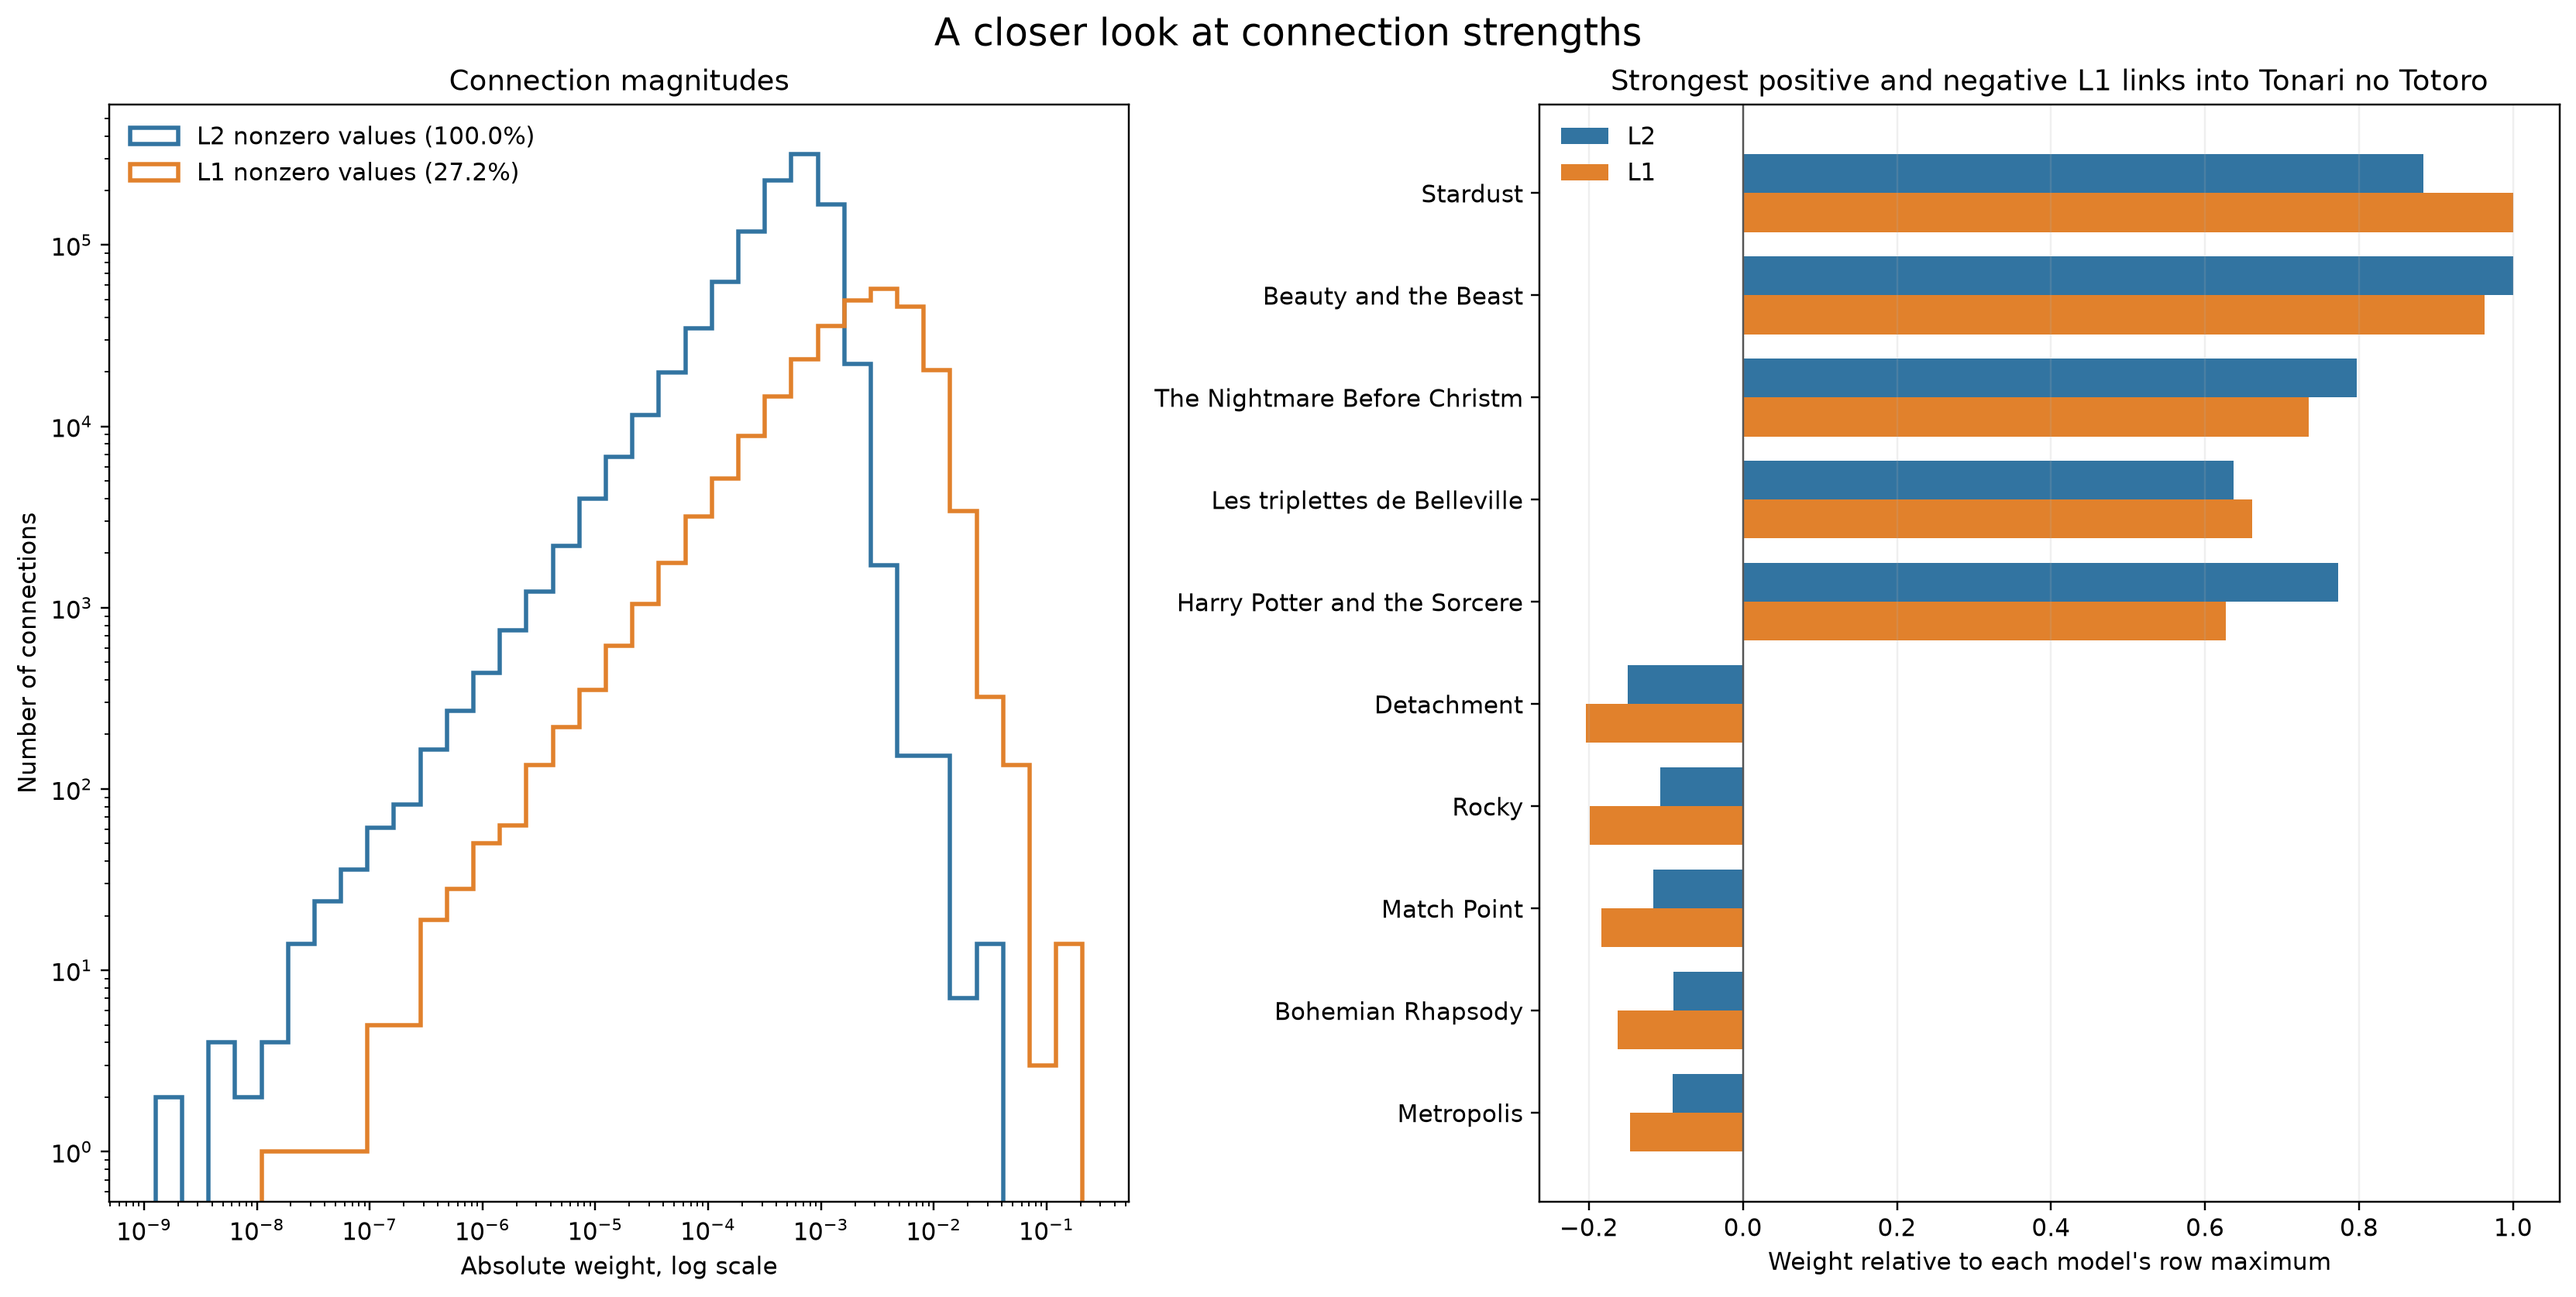
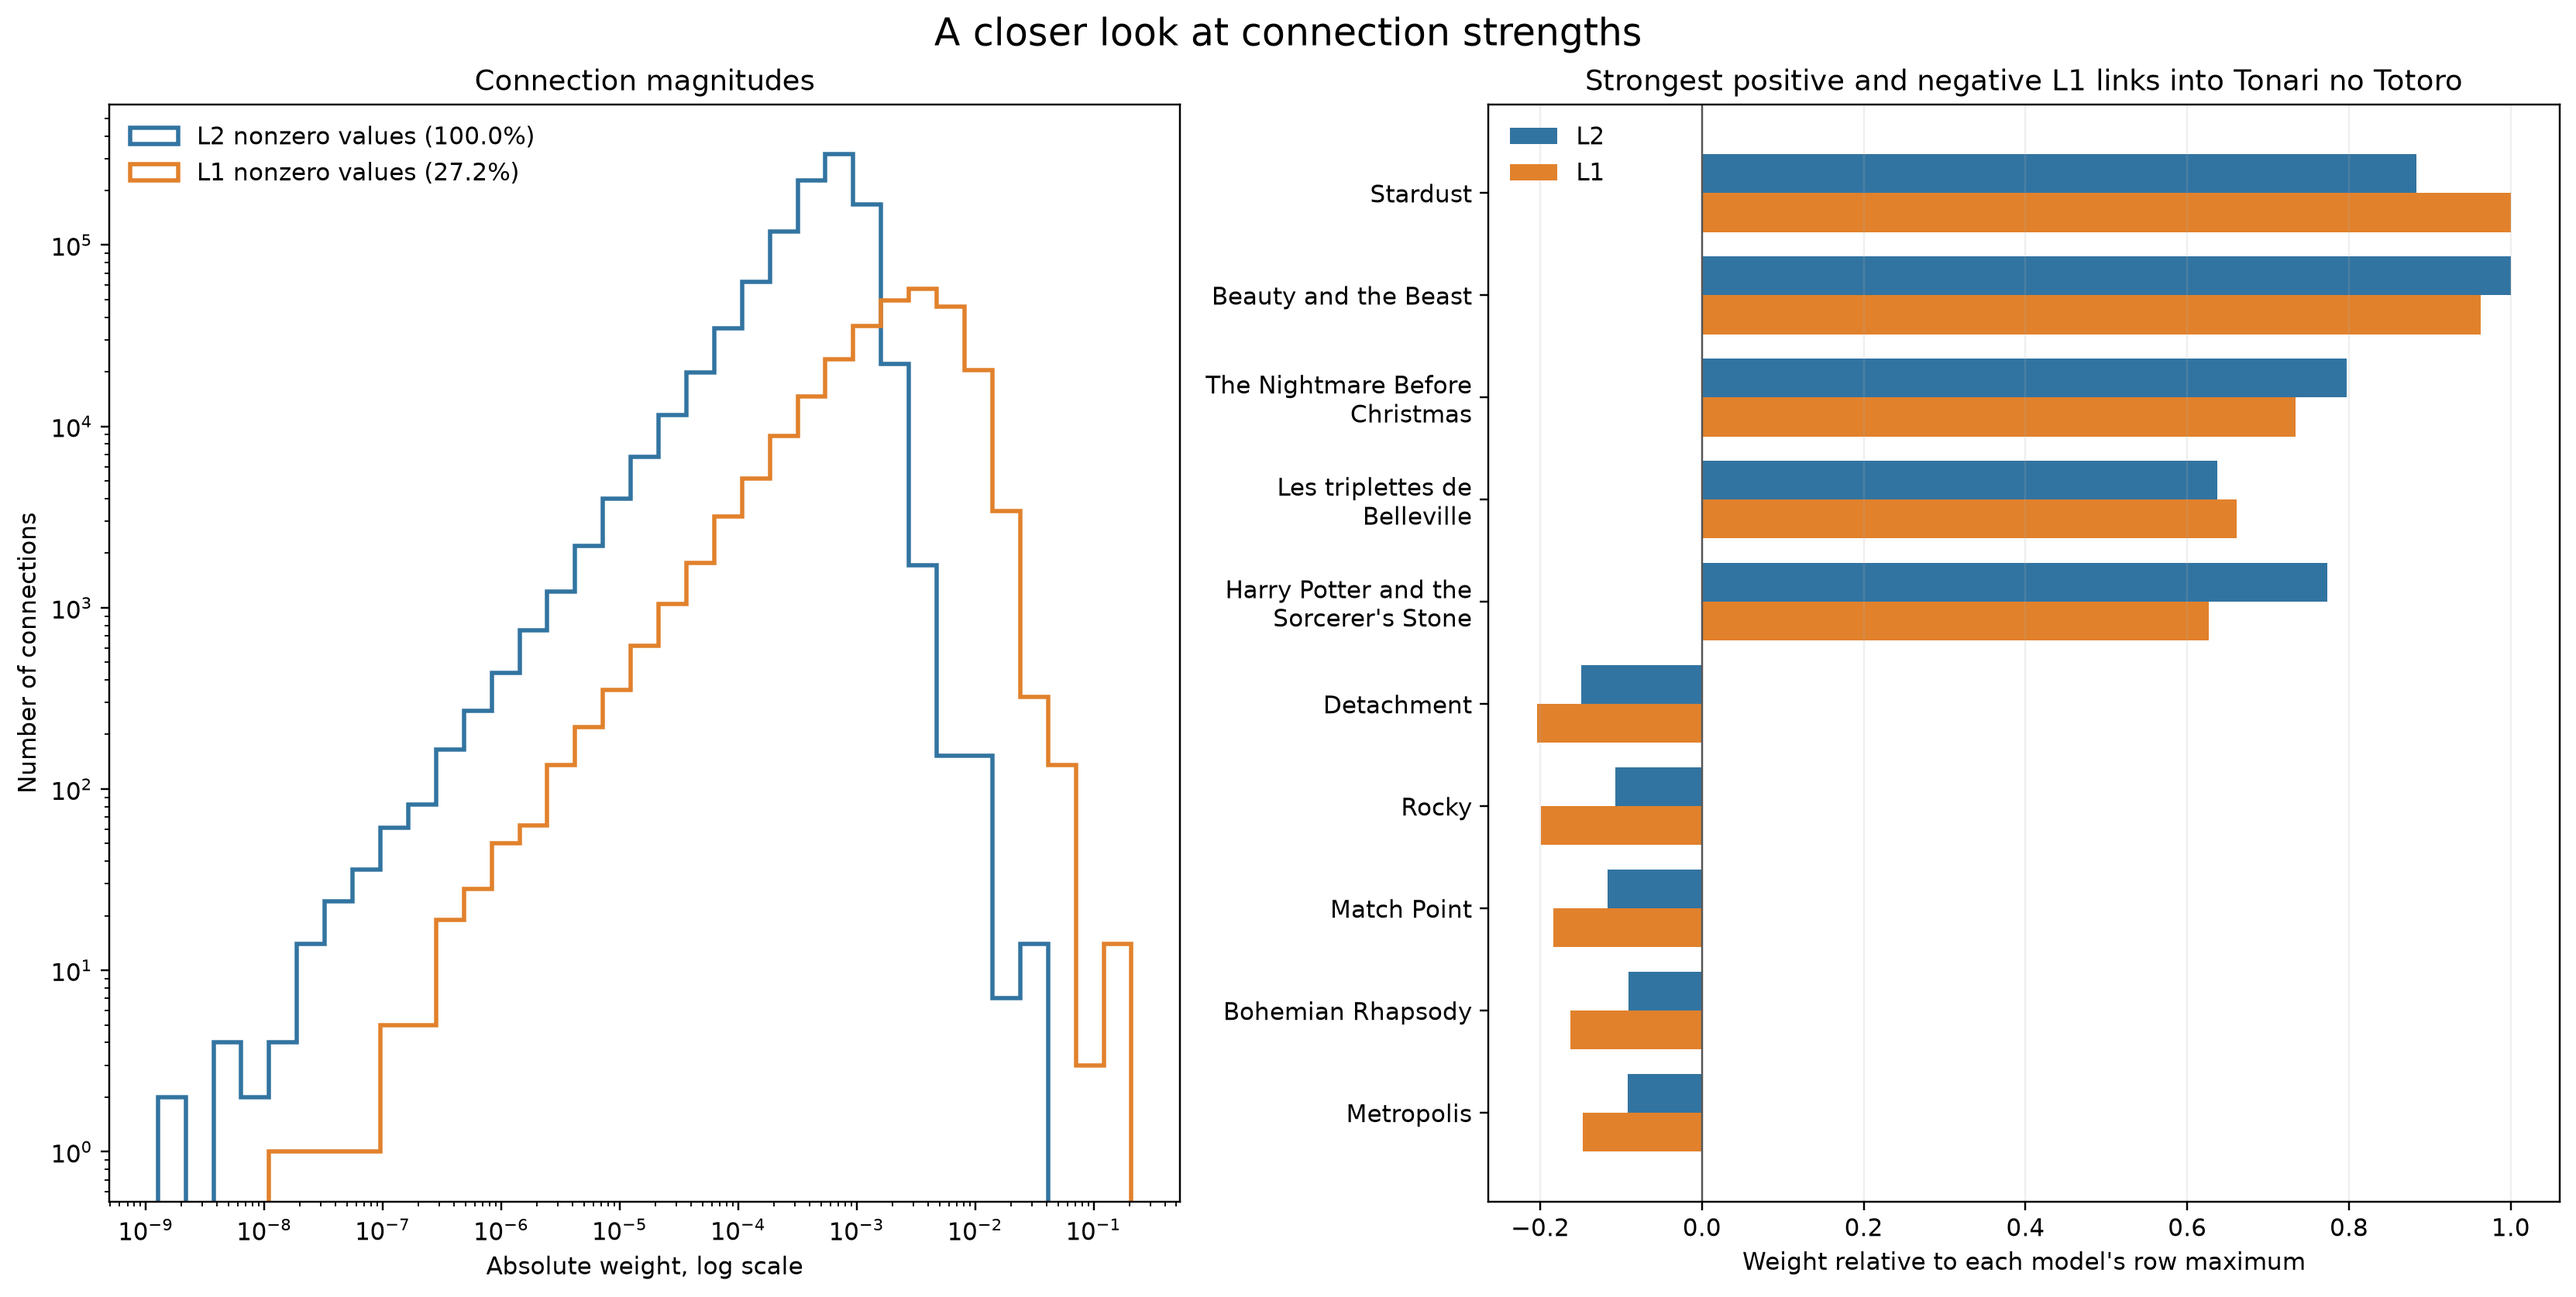
docs: pin slide notes to the bottom, show Totoro figure first
Wrap long movie titles in the connection figure instead of truncating
them, and redraw it from the saved weights.

diff --git a/slides/main.tex b/slides/main.tex
@@ -2,6 +2,17 @@
 
 \usepackage{mathtools}
 \usepackage{qrcode}
+\usepackage{tikz}
+
+% A small note pinned to the same spot at the bottom of every slide.
+\newcommand{\slidenote}[1]{%
+  \begin{tikzpicture}[remember picture, overlay]
+    \node[anchor=south west, inner sep=0pt, text width=0.9\paperwidth,
+          font=\footnotesize]
+      at ([xshift=0.05\paperwidth, yshift=0.06\paperheight]current page.south west)
+      {#1};
+  \end{tikzpicture}%
+}
 
 \usetheme{default}
 \setbeamertemplate{navigation symbols}{}
@@ -28,9 +39,8 @@
     \item Compare L2 and L1 regularization, then try recommendations in Streamlit.
   \end{itemize}
 
-  \vfill
-  \footnotesize Synthetic preferences make this a teaching example, not evidence
-  of real-world recommendation quality.
+  \slidenote{Synthetic preferences make this a teaching example, not evidence
+  of real-world recommendation quality.}
 \end{frame}
 
 \begin{frame}{Starting from your favorites}
@@ -46,7 +56,7 @@
     \item $v_i = 1$: movie $i$ is a favorite; $v_i = 0$ otherwise.
   \end{itemize}
 
-  \small Zero means unknown, not disliked.
+  \slidenote{Zero means unknown, not disliked.}
 \end{frame}
 
 \begin{frame}{What to do with your sparse vector?}
@@ -91,7 +101,7 @@
     \item Forbid self-prediction: $\operatorname{diag}(X) = 0$.
   \end{itemize}
 
-  \small $M$: movies \qquad $N$: viewers
+  \slidenote{$M$: movies \qquad $N$: viewers}
 \end{frame}
 
 \begin{frame}{The optimization problem}
@@ -106,7 +116,7 @@
 \end{itemize}
 
 \vspace{1em}
-\small The Frobenius norm measures the sum of squared differences between the predicted and actual likes.
+\slidenote{The Frobenius norm measures the sum of squared differences between the predicted and actual likes.}
 \end{frame}
 
 \begin{frame}{Why keep movie connections in check?}
@@ -196,7 +206,7 @@
     \item It has a closed-form solution for each $\lambda$ using standard linear algebra techniques.
   \end{itemize}
 
-  \small Sketch of proof: build the unconstrained Lagrangian problem and differentiate to get a 1st degree problem.
+  \slidenote{Sketch of proof: build the unconstrained Lagrangian problem and differentiate to get a 1st degree problem.}
 \end{frame}
 
 \begin{frame}{Sparse solutions}
@@ -212,17 +222,8 @@
     \qquad \text{subject to} \quad X_{ii} = 0
   \]
 
-  \small In the demo, L2 is trained live; L1 is precomputed because fitting it takes too long.
+  \slidenote{In the demo, L2 is trained live; L1 is precomputed because fitting it takes too long.}
 
-\end{frame}
-
-\begin{frame}[plain]
-  \centering
-  \includegraphics[
-    width=0.96\textwidth,
-    height=0.96\textheight,
-    keepaspectratio
-  ]{slides/assets/l1-l2-comparison-full.png}
 \end{frame}
 
 \begin{frame}[plain]
@@ -232,6 +233,15 @@
     height=0.96\textheight,
     keepaspectratio
   ]{slides/assets/l1-l2-signed-links-full.png}
+\end{frame}
+
+\begin{frame}[plain]
+  \centering
+  \includegraphics[
+    width=0.96\textwidth,
+    height=0.96\textheight,
+    keepaspectratio
+  ]{slides/assets/l1-l2-comparison-full.png}
 \end{frame}
 
 \begin{frame}{Summary}

diff --git a/scripts/compare_regularization.py b/scripts/compare_regularization.py
@@ -1,4 +1,5 @@
 import argparse
+import textwrap
 from pathlib import Path
 
 import matplotlib
@@ -248,7 +249,7 @@ def _plot_details(
         color="#E1812C",
         label="L1",
     )
-    labels = [movies[movie_id].title[:28] for movie_id in connection_ids]
+    labels = [textwrap.fill(movies[movie_id].title, 24) for movie_id in connection_ids]
     connection_axis.set_yticks(y_positions, labels)
     connection_axis.invert_yaxis()
     connection_axis.axvline(0, color="#555555", linewidth=0.8)
